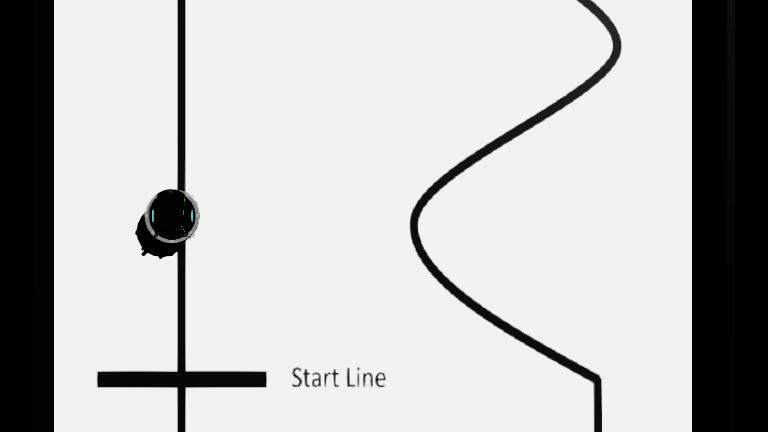
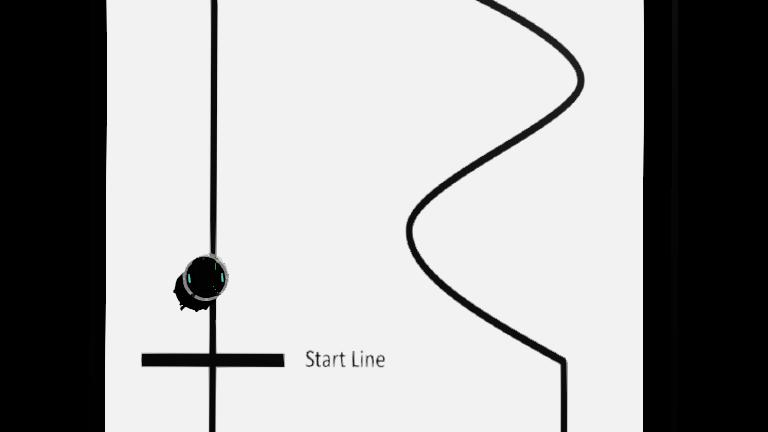
Fixed the error stuff

diff --git a/F26_CSCI3302_Lab2/controllers/lab2_controller/lab2_controller.py b/F26_CSCI3302_Lab2/controllers/lab2_controller/lab2_controller.py
@@ -28,9 +28,9 @@ state = "speed_measurement"
 # ePuck Constants
 EPUCK_AXLE_DIAMETER = 0.053  # ePuck's wheels are 53mm apart.
 # TODO: set the ePuck wheel speed in m/s after measuring the speed (Part 1)
-EPUCK_MAX_WHEEL_SPEED = 0.13643
+EPUCK_MAX_WHEEL_SPEED = 0.125
 MAX_SPEED = 6.28
-MEASUREMENT_DISTANCE = 0.567
+MEASUREMENT_DISTANCE = 0.1
 
 # get the time step of the current world.
 SIM_TIMESTEP = int(robot.getBasicTimeStep())
@@ -81,7 +81,8 @@ def update_odometry(left_velocity, right_velocity):
 
     pose_x += distance * math.cos(theta_mid)
     pose_y += distance * math.sin(theta_mid)
-    pose_theta = (pose_theta + dtheta) % (2 * math.pi) 
+    pose_theta = math.atan2(math.sin(pose_theta + dtheta), math.cos(pose_theta + dtheta))
+
 # Main Control Loop:
 while robot.step(SIM_TIMESTEP) != -1:
 
@@ -216,7 +217,7 @@ while robot.step(SIM_TIMESTEP) != -1:
                 )
             if start_line_confirmed:
                 if lap_started:
-                    print("Current pose: [%5f, %5f, %5f]" % (pose_x, pose_y, pose_theta))
+                    print("Pose before reset: [%5f, %5f, %5f]" % (pose_x, pose_y, pose_theta))
                    # while (True):
                         #time.sleep(1)
 
